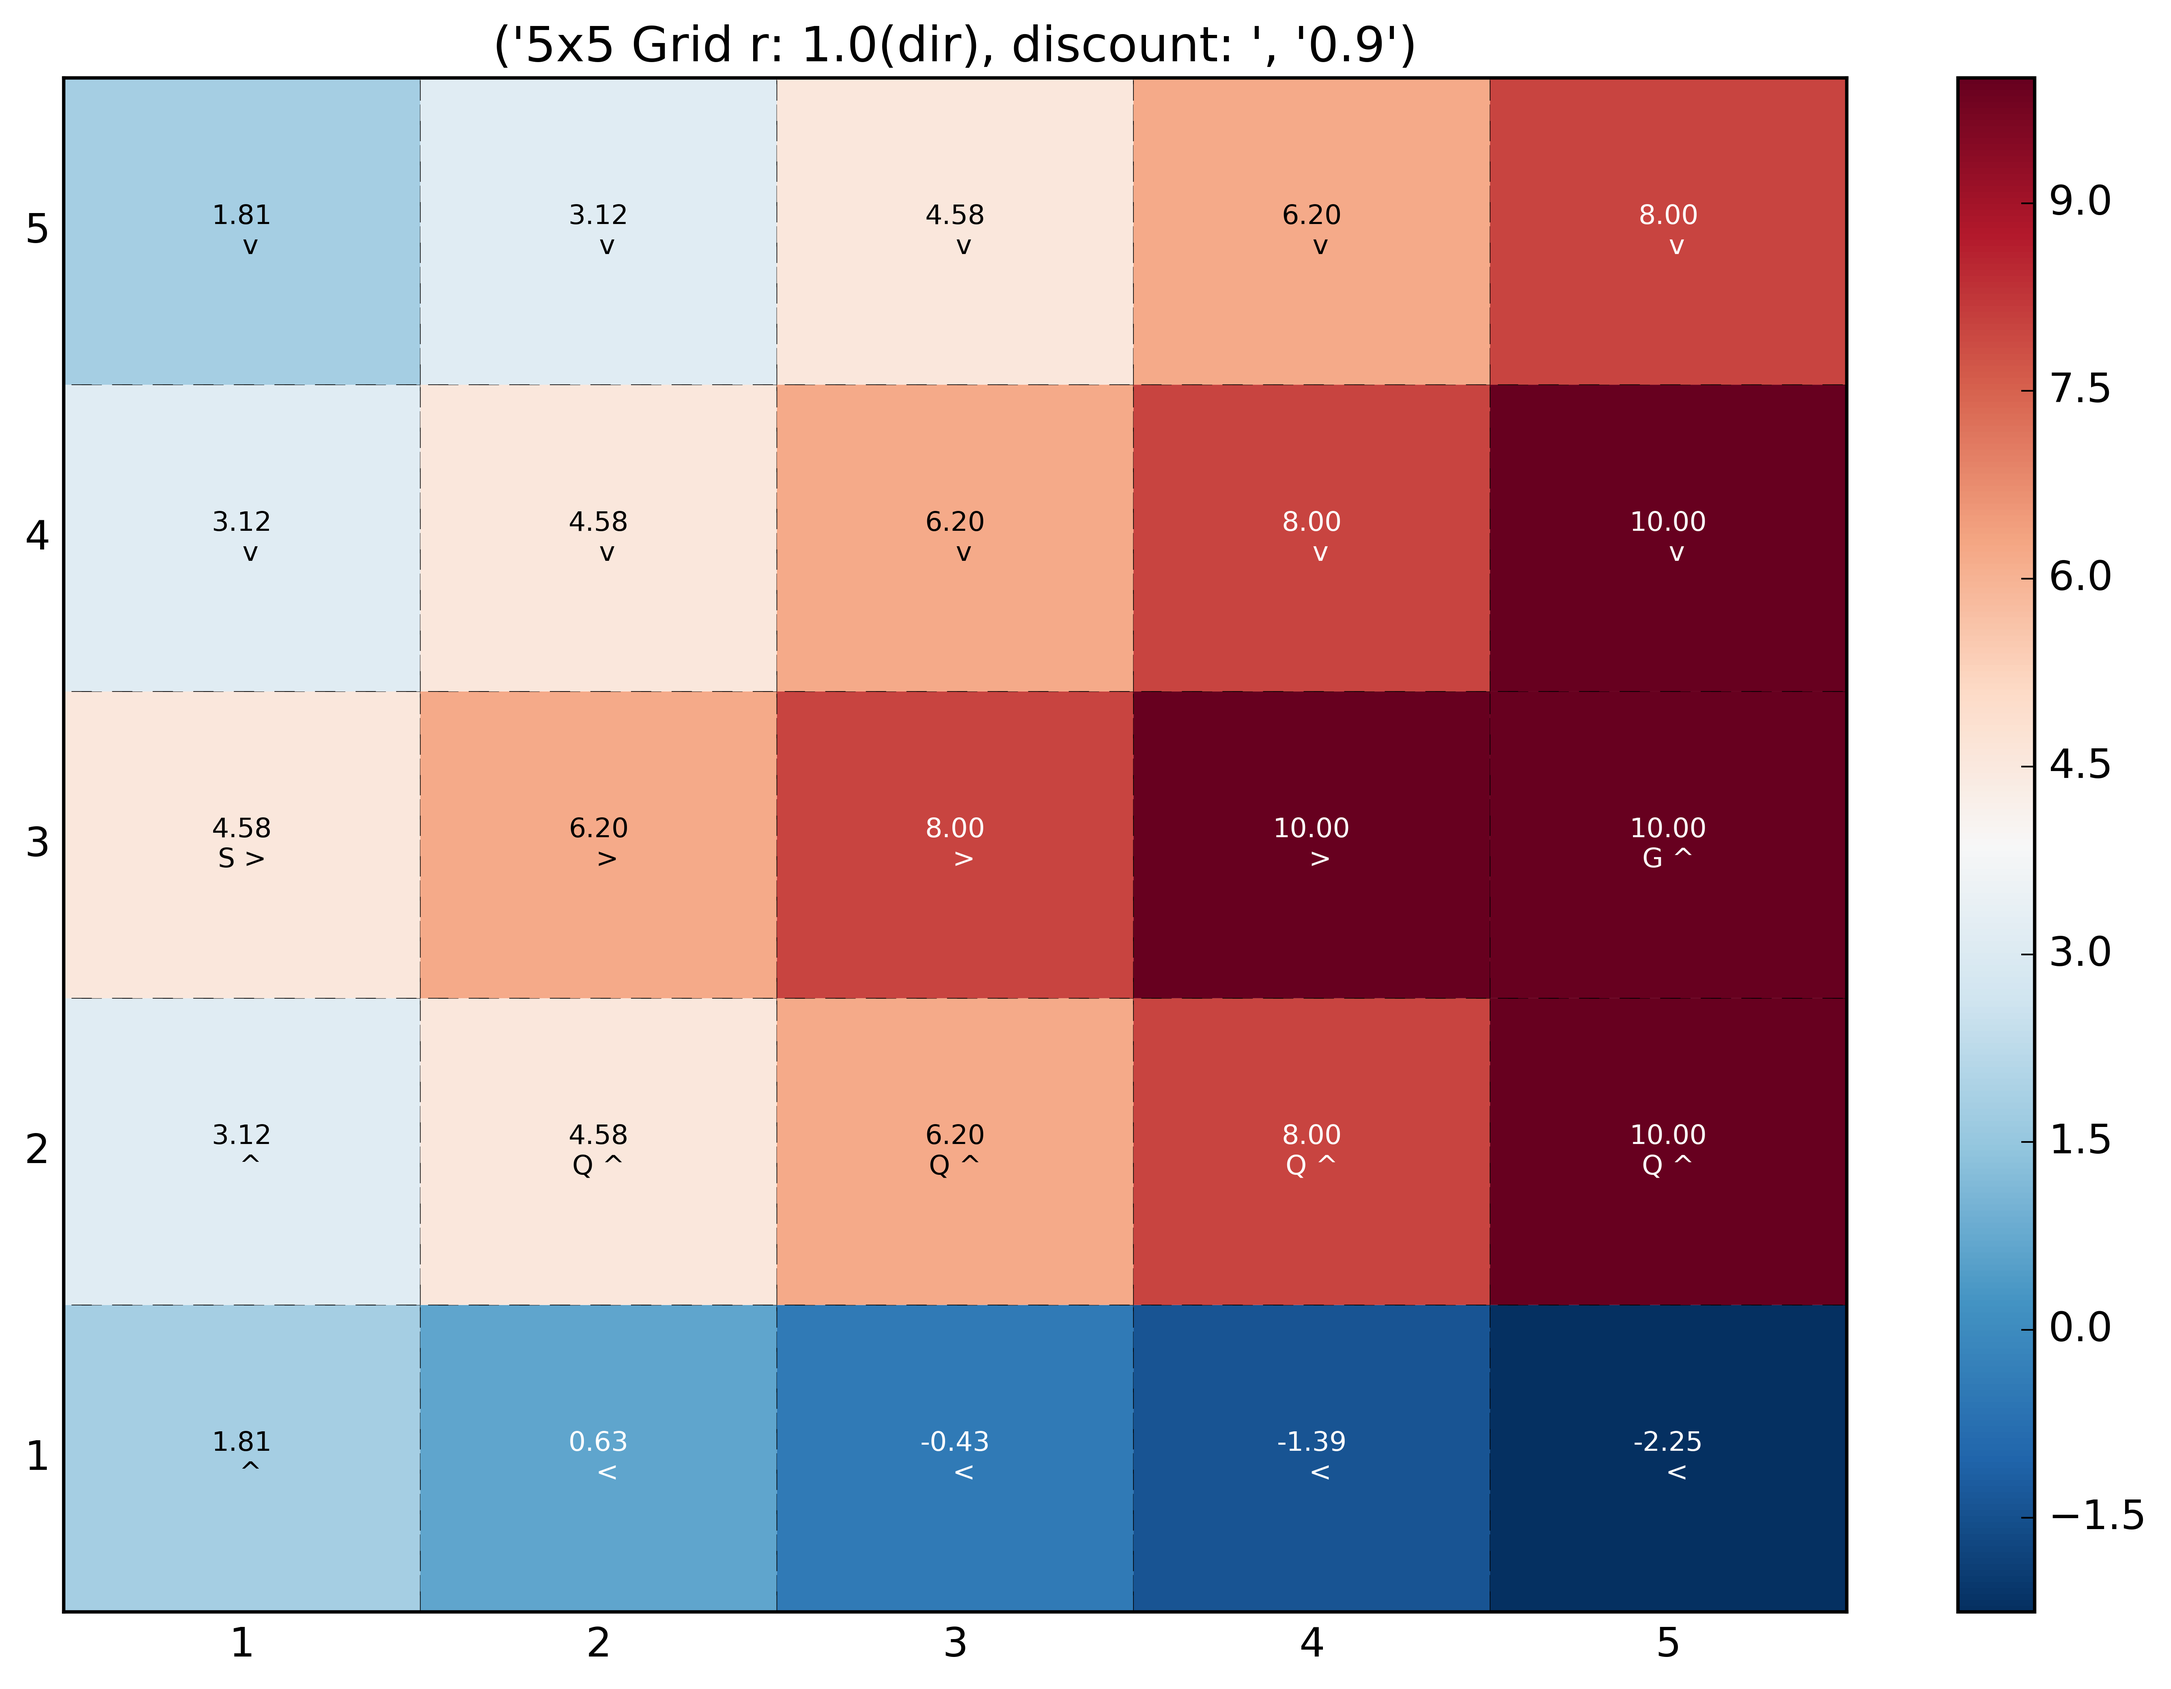
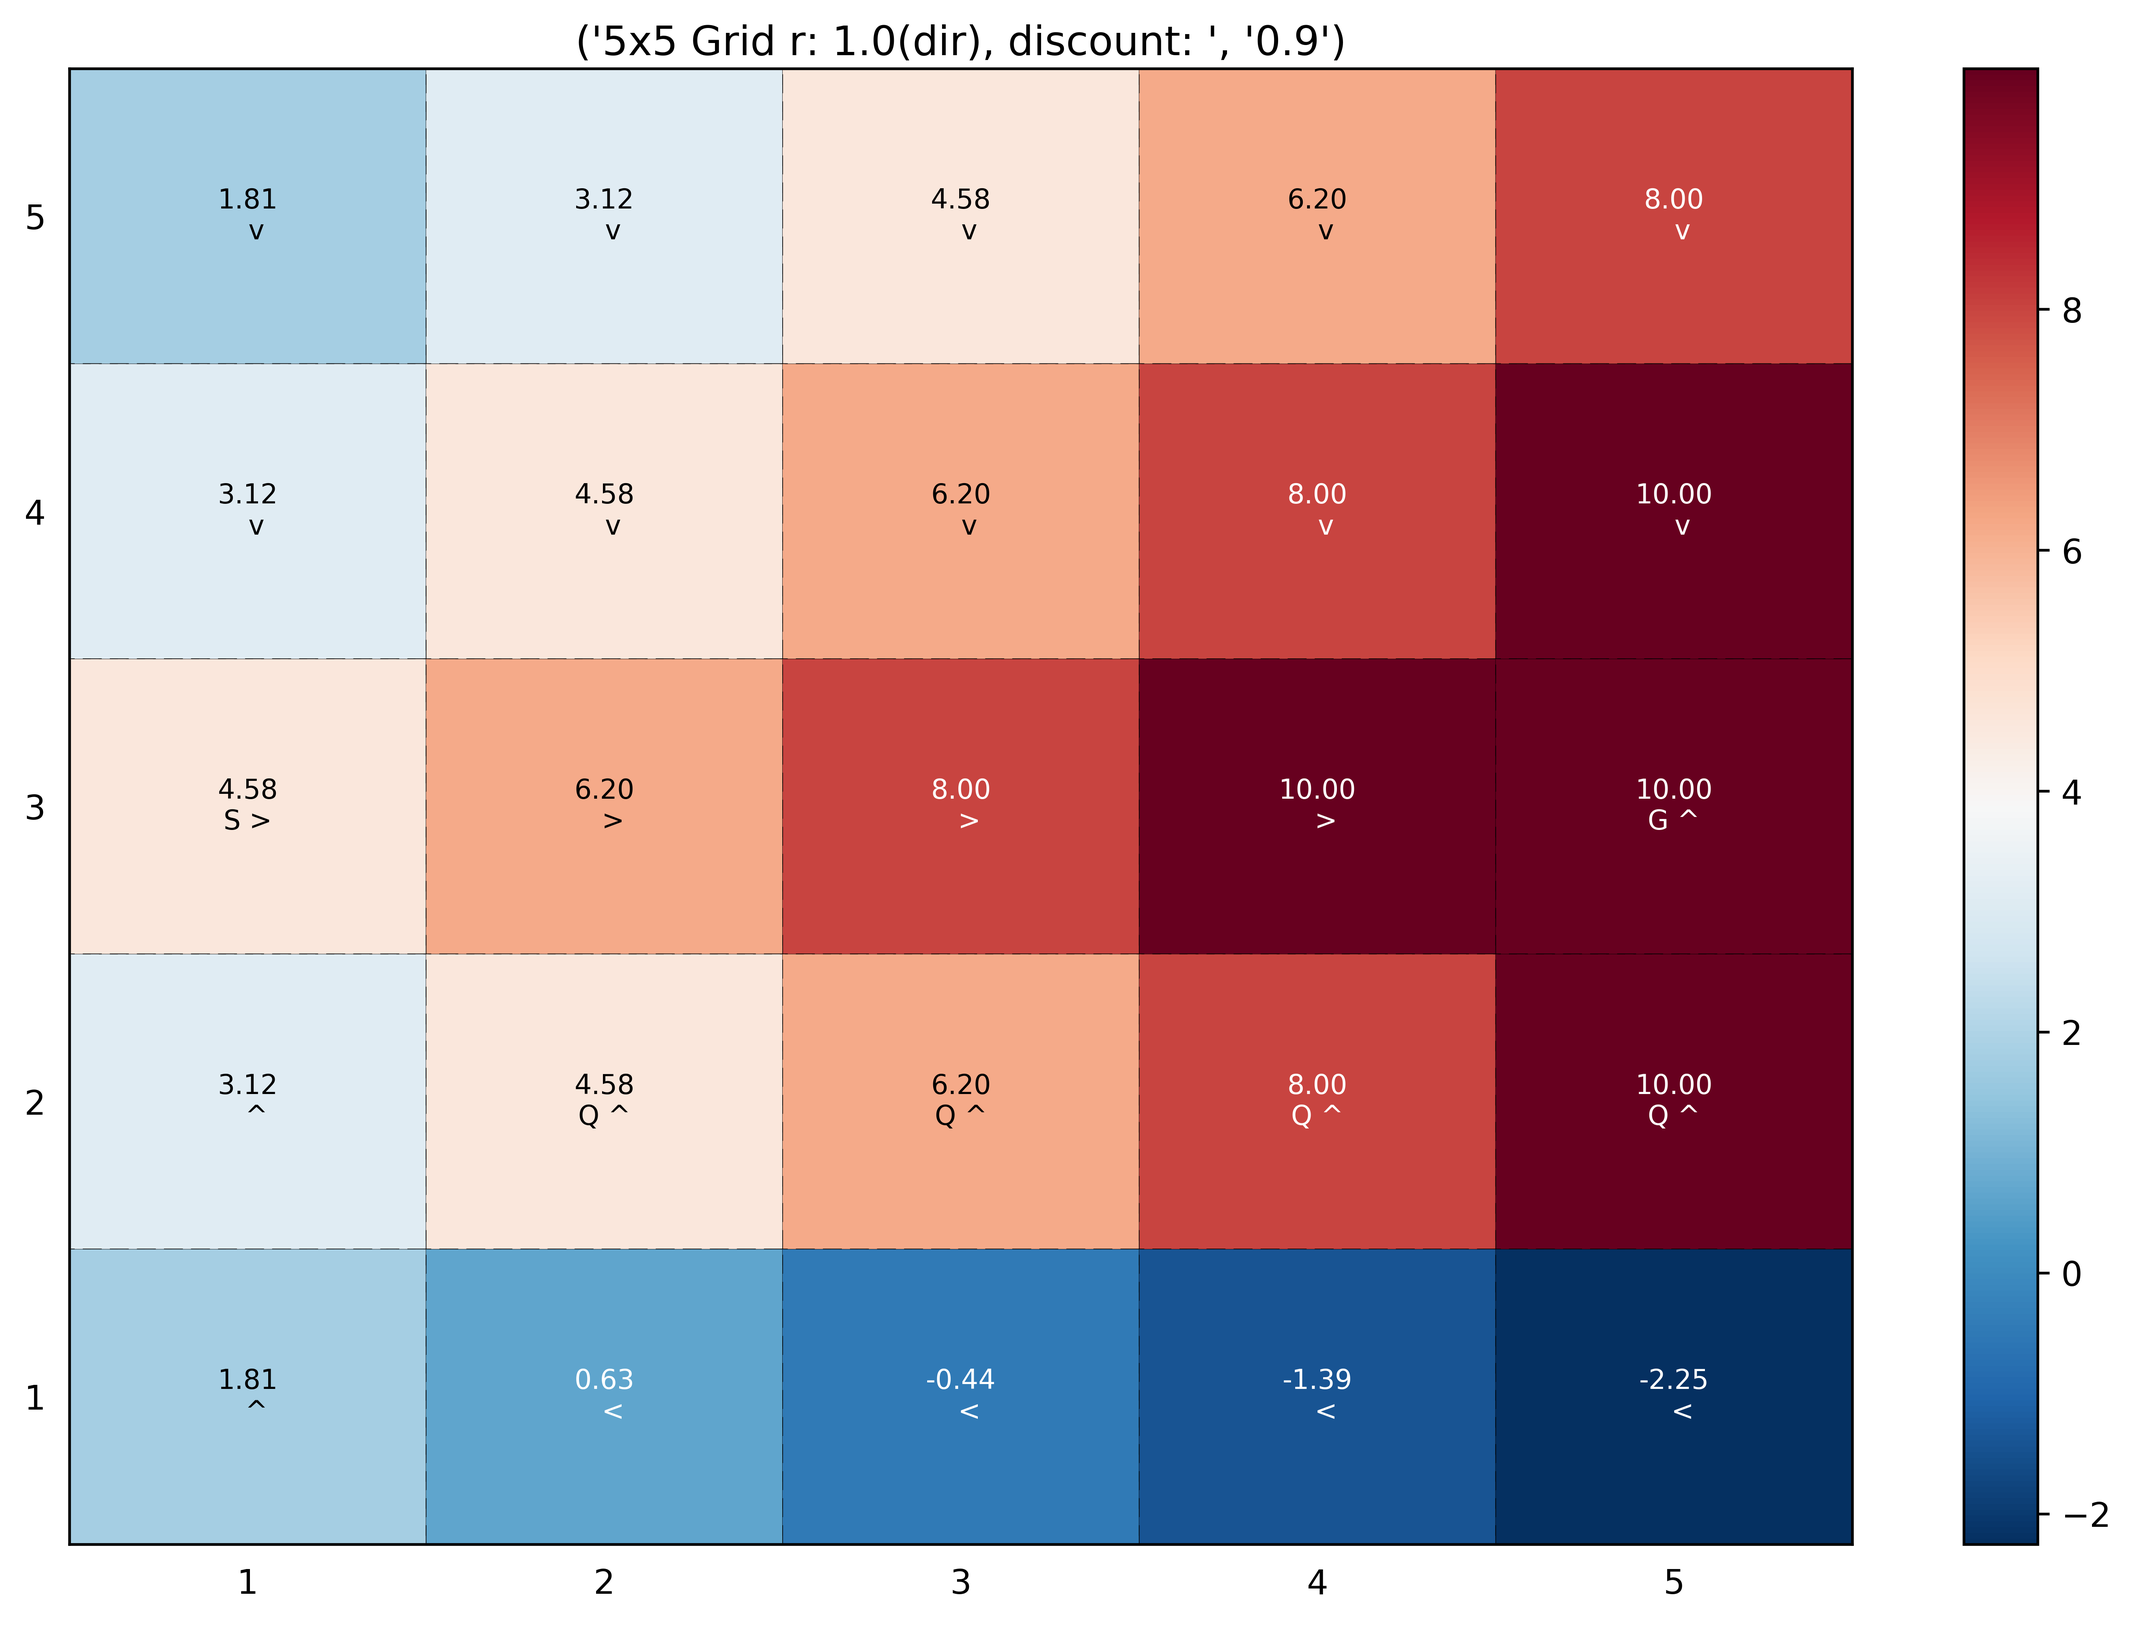
updated

diff --git a/Assignment4/mdp_test.py b/Assignment4/mdp_test.py
@@ -269,12 +269,12 @@ class part1():
         b = best_policy(mdp, vi)
         print(b)
         
-    def run_value_iteration_and_plot(self, grid, k, d, discount):
+    def run_value_iteration_and_plot(self, grid, k, d, discount, epsilon=0.001):
         ## policy iteration
         T, R, start, goals = self.__convert_grid_to_mdp(grid, k, d)
         
         
-        vi = mdptoolbox.mdp.ValueIteration(T, R, discount, max_iter=1000)
+        vi = mdptoolbox.mdp.ValueIteration(T, R, discount, epsilon=epsilon, max_iter=1000)
         
         with open('./output/valueiter.txt', 'a') as text_file:            
             t0 = time()
@@ -303,10 +303,13 @@ class part1():
         #ph.plot_heatmap_simple(v[::-1], title, fn)
         print('done')
         
-    def run_policy_iteration_and_plot(self, grid, k, d, discount):
+    def run_policy_iteration_and_plot(self, grid, k, d, discount, epsilon=0.001):
         ## policy iteration
         T, R, start, goals = self.__convert_grid_to_mdp(grid, k, d)
-        pi = mdptoolbox.mdp.PolicyIteration(T, R, discount, max_iter=1000000)
+        #pi = mdptoolbox.mdp.PolicyIteration(T, R, discount, max_iter=1000000)
+        pi = mdptoolbox.mdp.PolicyIterationModified(T, R, discount, epsilon=epsilon, max_iter=1000000)
+        
+        
         
         with open('./output/policyiter.txt', 'a') as text_file:            
             t0 = time()
@@ -424,8 +427,8 @@ class part1():
         
         #self.__test_movement()
         
-        #for grid_file in ['./input/grid1.csv', './input/grid2.csv']:
-        for grid_file in ['./input/grid2.csv']:
+        for grid_file in ['./input/grid1.csv', './input/grid2.csv']:
+        #for grid_file in ['./input/grid2.csv']:
             
             #fn = './input/grid1.csv'
             grid = pd.read_csv(grid_file, header=None).values
@@ -436,8 +439,8 @@ class part1():
             ph.plot_layout(grid, title, fn)
             
             #self.run_and_plot_qlearner(grid, d=True, k=1.0, alpha=0.2, gamma=0.8, rar=1.00, rard=0.999999, n_restarts=10000, n_iter=1000000)
-            #self.run_value_iteration_and_plot(grid, k=1.0, d=True, discount=0.9)
-            self.run_policy_iteration_and_plot(grid, k=1.0, d=True, discount=0.9)
+            self.run_value_iteration_and_plot(grid, k=1.0, d=True, discount=0.9, epsilon=0.00001)
+            self.run_policy_iteration_and_plot(grid, k=1.0, d=True, discount=0.9, epsilon=0.00001)
             
             '''
             for k in [1.00, 0.90, 0.85, 0.80, 0.75]:
